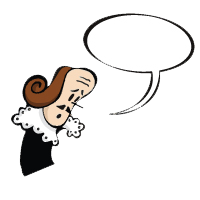
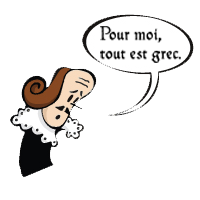
Connected to NLP Translation API

Changed region(s): [[0.39, 0.06, 0.99, 0.6], [0.03, 0.33, 0.51, 0.87], [0.09, 0.69, 0.15, 0.9]]

diff --git a/assets/js/script.js b/assets/js/script.js
@@ -24,11 +24,32 @@ $(document).ready(function () {
       populateSearchHistory();
    };
 
-   function getShakespeare(selectedWord) {
-      fetch(speechURL, speechOptions).then(function (response) {
-         console.log(response)
-      })
-      populateDefinition(data, selectedWord)
+   function getTranslation(selectedWord) {
+      const url = "https://nlp-translation.p.rapidapi.com/v1/translate?text=" + selectedWord + "&to=fr&from=en";
+      const options = {
+         method: "GET",
+         headers: {
+            "X-RapidAPI-Key": "edffdf1e95msha5ea98f7066bb52p15b514jsnb04cc7a266bf",
+            "X-RapidAPI-Host": "nlp-translation.p.rapidapi.com"
+         }
+      };
+
+      fetch(url, options)
+         .then(function (response) {
+            if (!response.ok) {
+               throw new Error("Network response was not ok");
+            }
+            return response.json();
+         })
+         .then(function (data) {
+            console.log("API Response:", data);
+            // populateDescription(data, selectedWord);
+         })
+         .catch(function (error) {
+            console.error("Error fetching data:", error);
+            alert("Something went wrong when getting the data. Please try again.");
+         });
+
    };
 
    function getDescription(selectedWord) {
@@ -56,7 +77,7 @@ $(document).ready(function () {
             alert("Something went wrong when getting the data. Please try again.");
          });
 
-      getShakespeare(selectedWord);
+      getTranslation(selectedWord);
    };
 
    // Needs a butten in the HTML with id clearAllButton

diff --git a/index.html b/index.html
@@ -44,7 +44,7 @@
       </div>
 
       <div id="Shakespeare" class="my-1">
-        <h2 class="text-white display-6" style="margin: 2rem">How would Shakespeare say it?<img
+        <h2 class="text-white display-6" style="margin: 2rem">What is your chosen word in French?<img
             src="assets/images/shakespearesm.png" alt="Shakespeare"></h2>
         <p id="shakes"></p>
       </div>

diff --git a/README.md b/README.md
@@ -1,7 +1,7 @@
 
 # English Words
 
-Module 9 Project: This is a web page where a user can input a word and get a definition of that word (and possibly other information) and the user can find out how that word is used by Shakespeare.
+Module 9 Project: This is a web page where a user can input a word and get a definition of that word (and possibly other information) and the user can find out what word is in another language.
 
 ---
 
@@ -14,7 +14,7 @@ https://stephdavid.github.io/English-Words/
 
 ### Use Case
 
-As a non-native English speaker, I would like to visit a pleasant looking modern website where I can input a word and get its definition. After that I can store the word for later consideration. As a native English speaker, I would be interested in how William Shakespear would say it.
+As a non-native English speaker, I would like to visit a pleasant looking modern website where I can input a word and get its definition. After that I can store the word for later consideration. As a native English speaker, I would be interested in what the word is in a foreign language.
 
 ### Screenshots
 
@@ -56,7 +56,8 @@ As a non-native English speaker, I would like to visit a pleasant looking modern
 ### Process
 
 * Created a new repo. Rebranded the homepage. Added event listener and user input validation. Added modal. 
-
+* Connected to Word Dictionary API using fetch - https://rapidapi.com/twinword/api/word-dictionary and validation.
+* 
 
 ---
 
